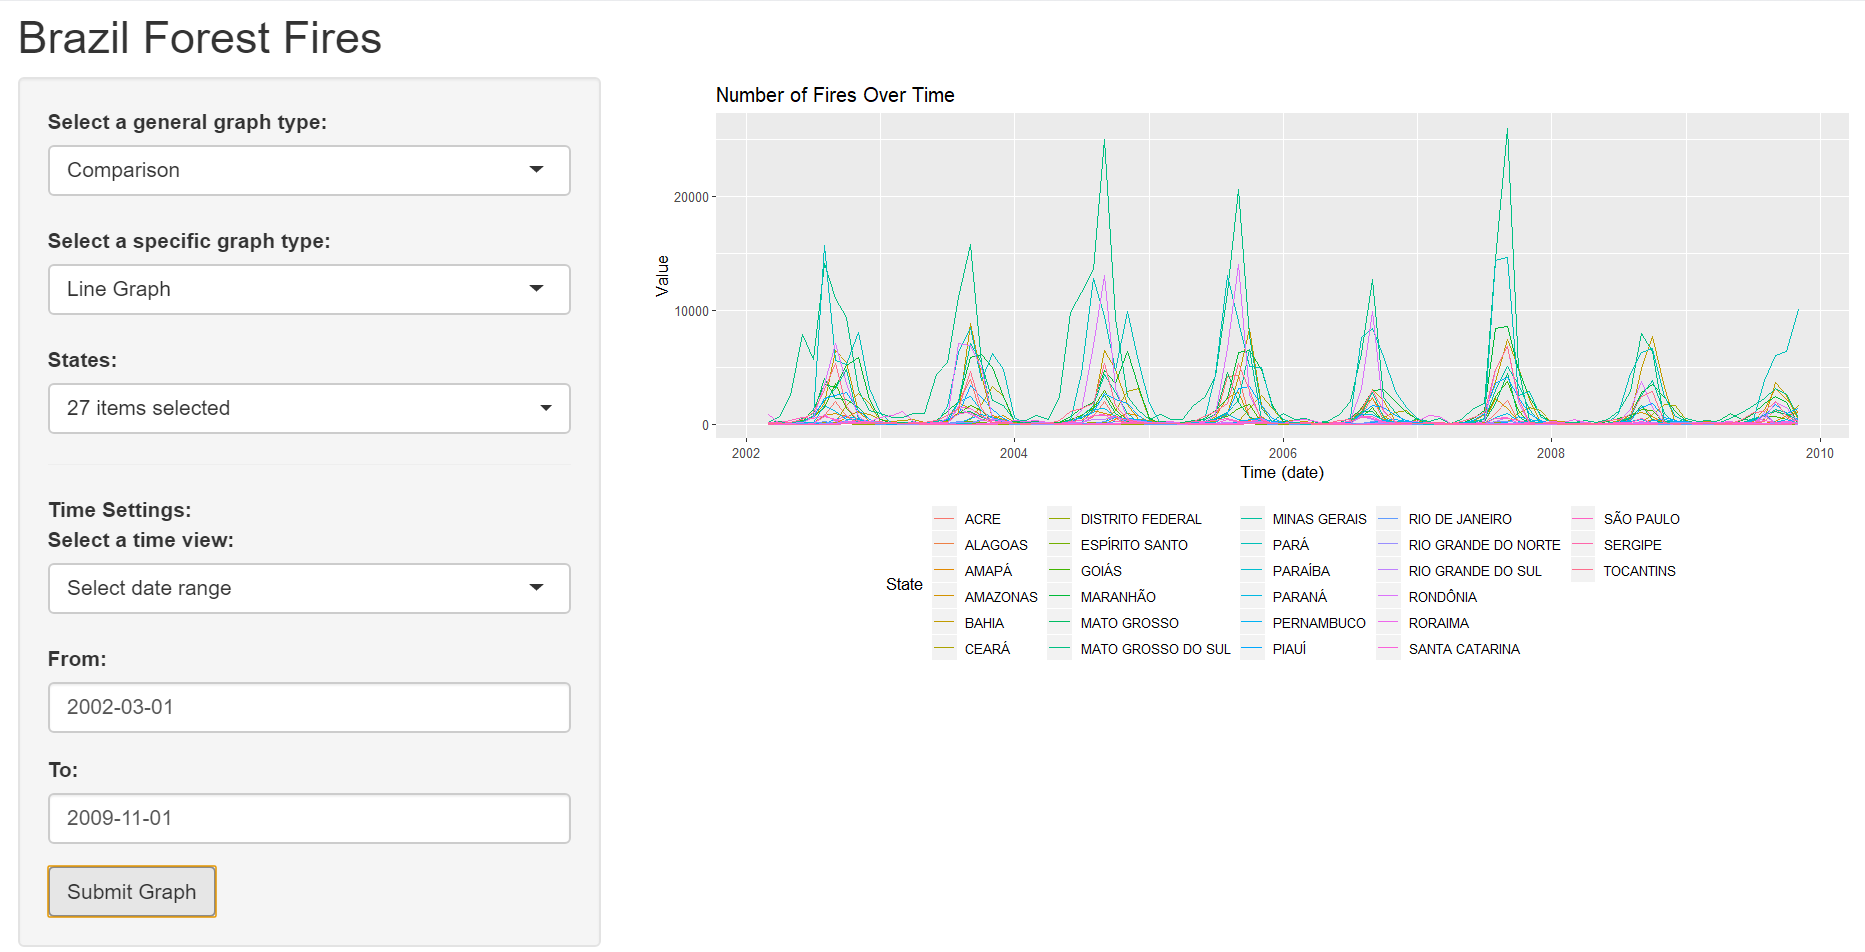
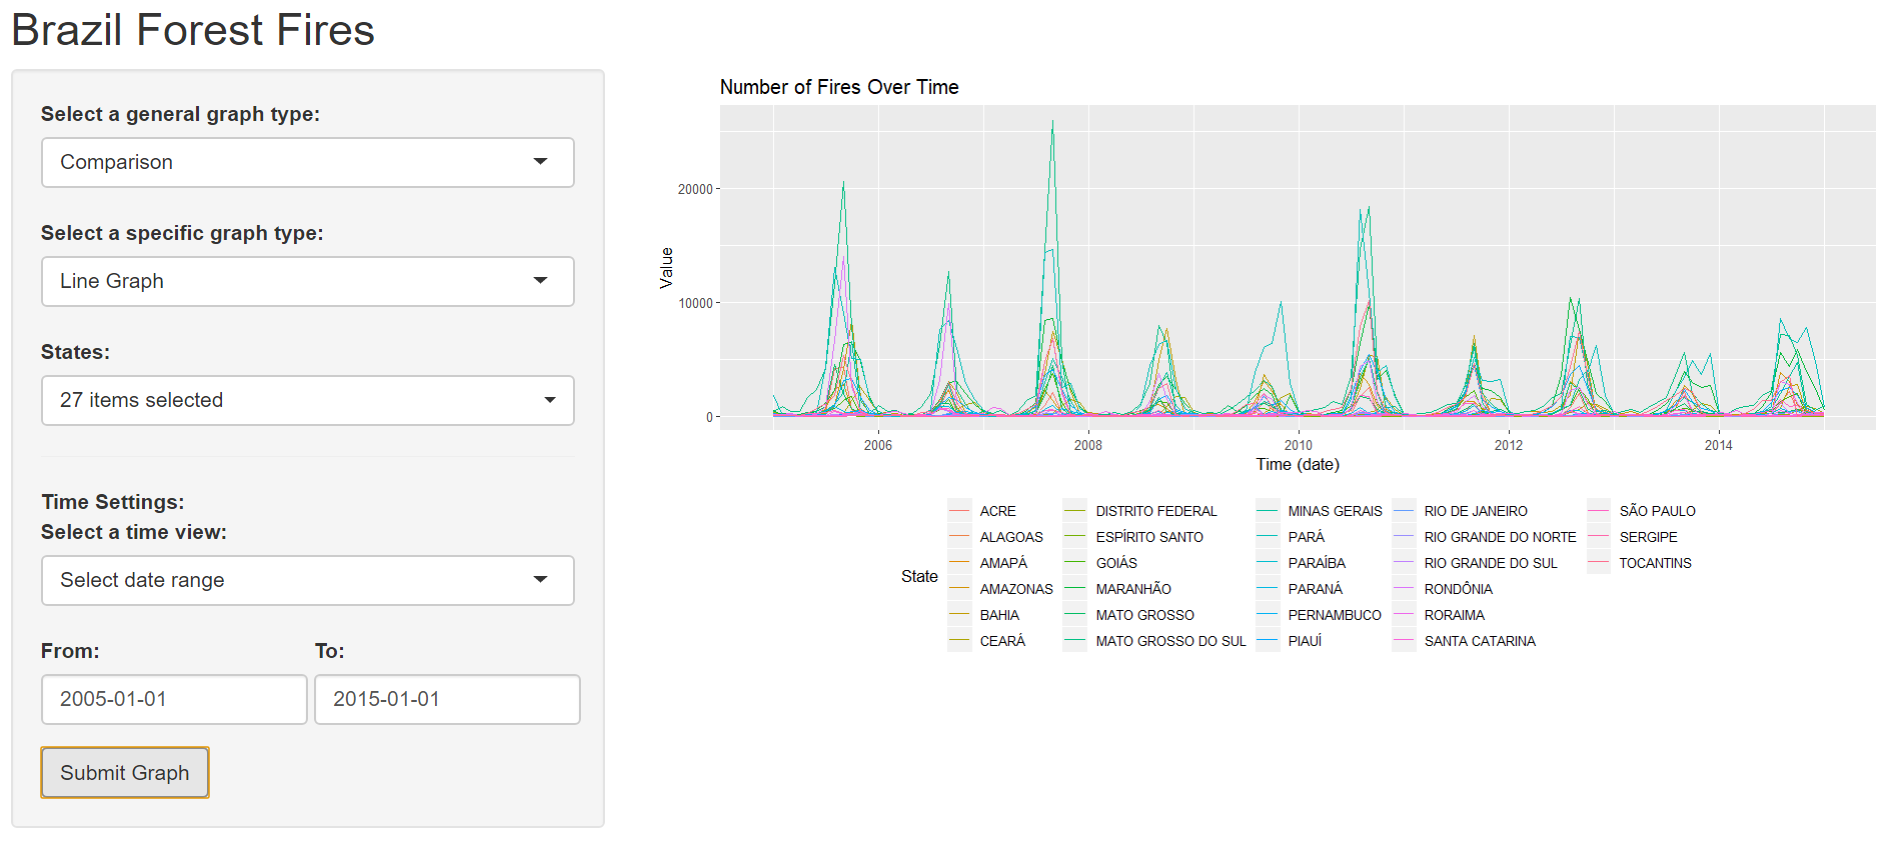
date ui change + demo change

diff --git a/README.md b/README.md
@@ -1,15 +1,17 @@
 # Brazil Forest Fires 2018
 The Amazon rainforest is the world's largest tropical rainforest. It contains an amazing amount of  diverse wildlife and is a great wonder of nature. The serious fire situation along with unsustainable deforestation are resulting in the death of millions of plants and animals. Not only is this bad for the animals, but for people concerned about using the Amazon as a natural resource. The fires not only emit huge amounts of carbon dioxide, but have other costs seen in the declaration of emergencies across multiple countries and the massive task involved in the firefighting effort.
 
+---
+
 ## App
 The app in development is a Shiny app. With a focus on visualization, the app will use ggplot2 in conjunction with dplyr and other required libraries to create visualizations of the amount of forest fires in different regions at various times. These graphs will include jitter scatterplots, pie, bar, line, choropleth and many more! While this app is still in active development, here are some demo images:
 
 
 ![Jitter graph demo](images/jitter_graph_demo.PNG)
-Jitter Scatterplot graph for all states from 2000-2014 (grouped by year).
+*Jitter Scatterplot graph for all states from 2000-2014 (grouped by year).*
 
 ![Line graph demo](images/line_graph_demo.PNG)
-Line graph for all states form 02/2002 to 11/2009.
+*Line graph for all states form 01/2005 to 01/2015.*
 
 ## Run Locally
 Shiny apps can be run locally in RStudio using the following code:
